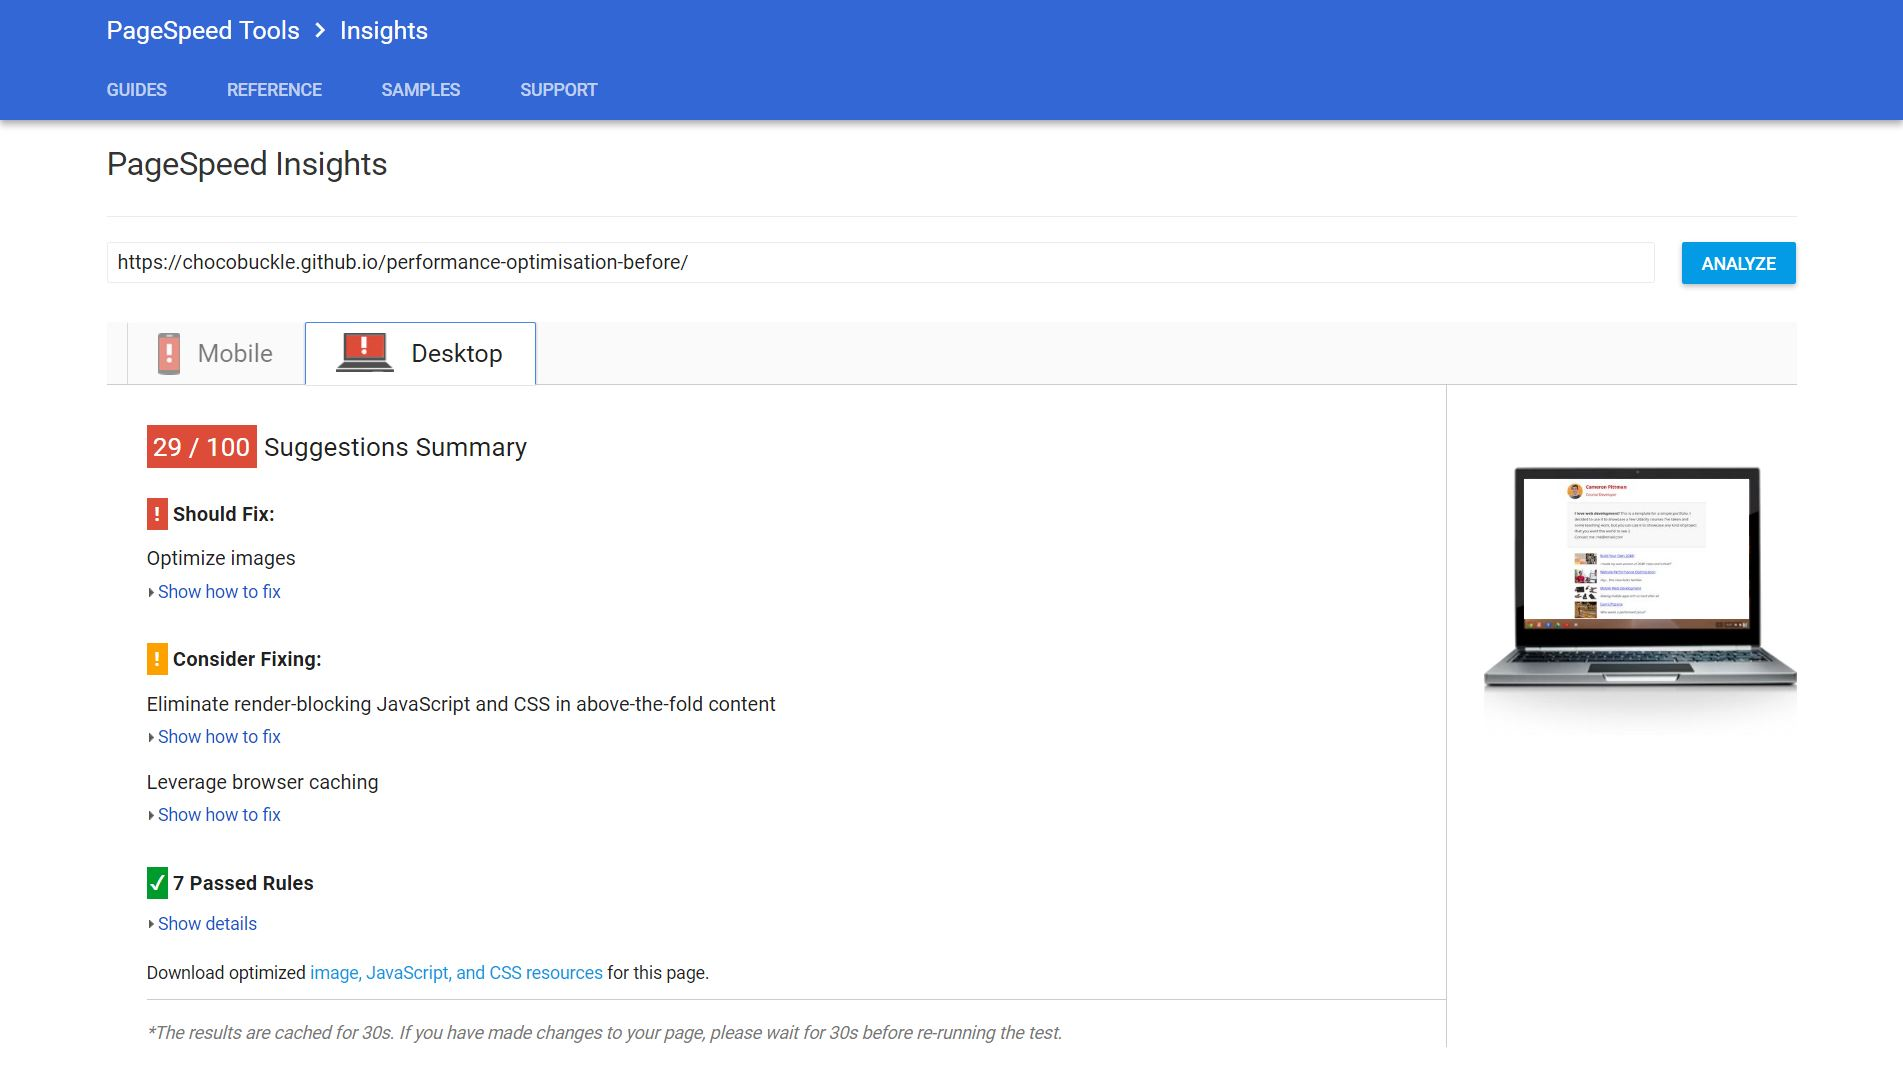
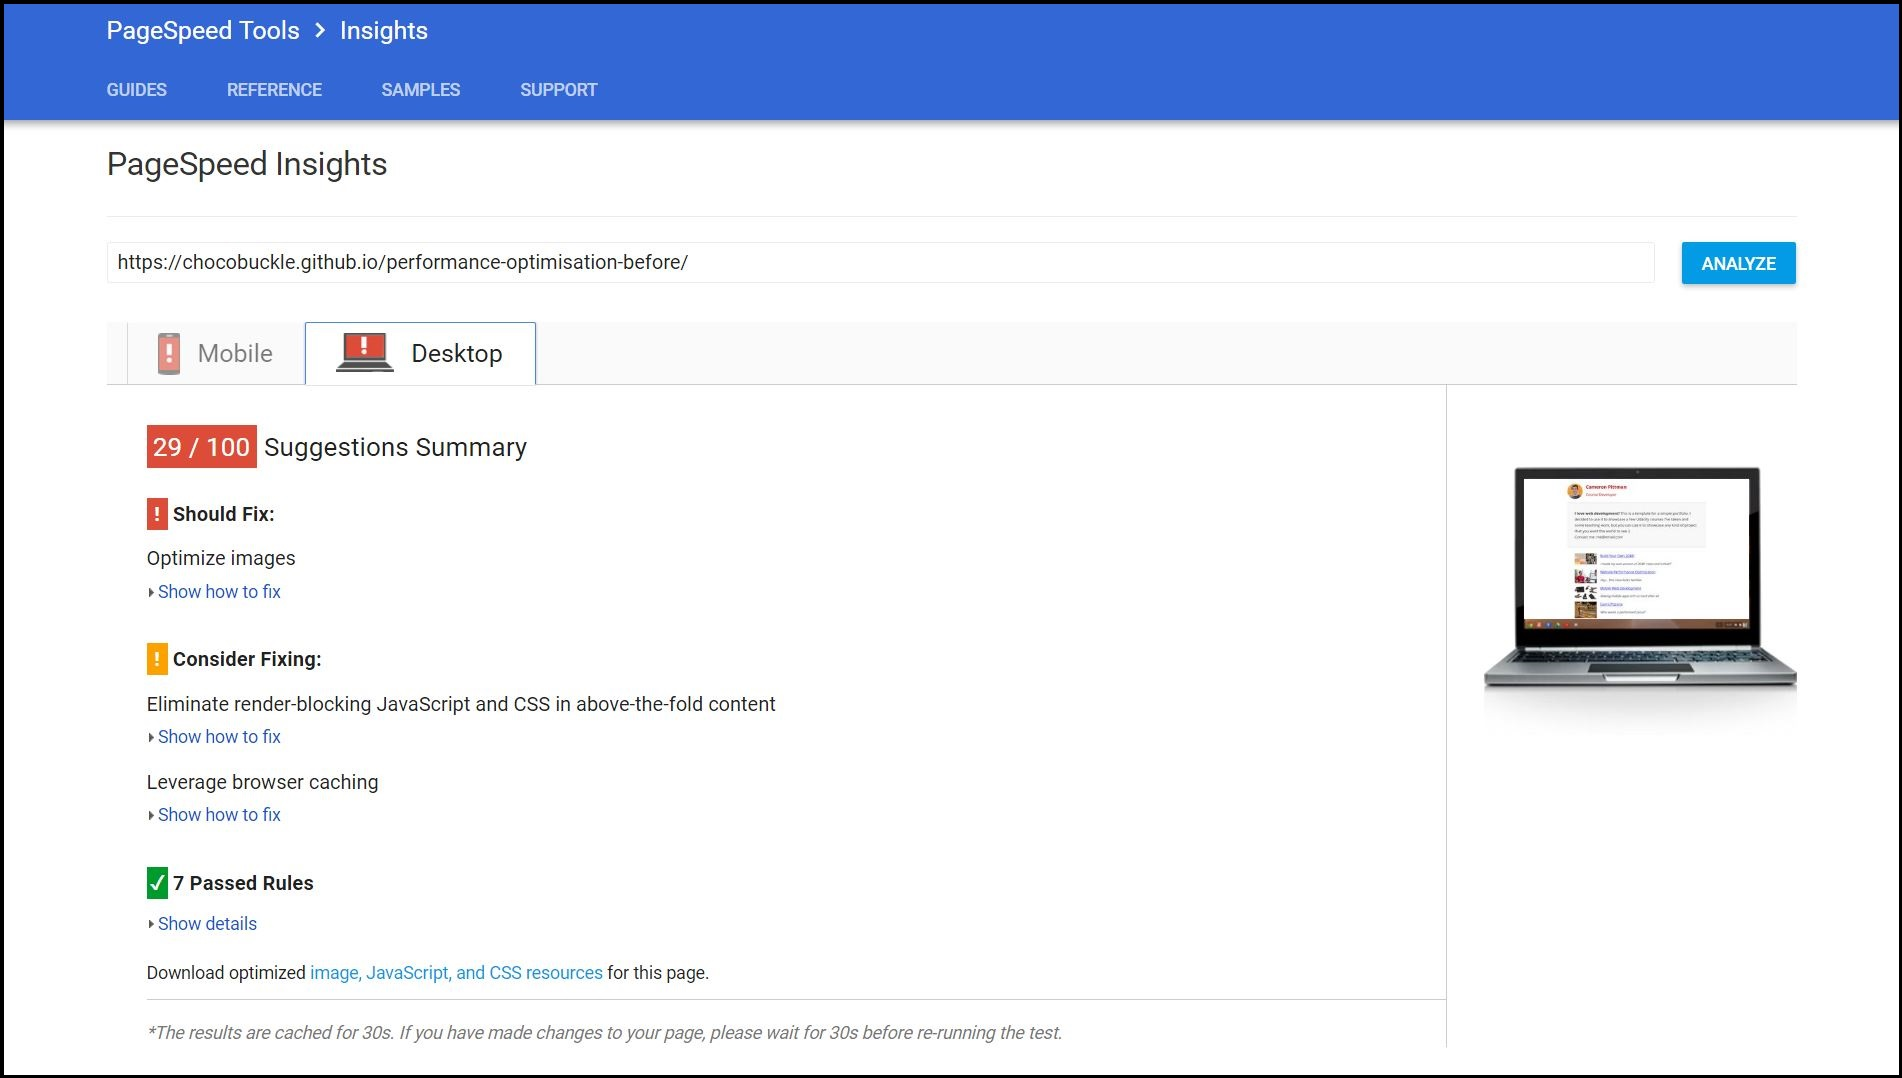
add borders to images in README

diff --git a/README.md b/README.md
@@ -2,9 +2,13 @@
 
 A website performance/rendering optimisation, submitted as a project for the Udacity Front-End Developer Nanodegree program.
 
+## Introduction
+
+As the number of devices users can access an application continues to grow, ensuring a quality user experience across those devices is of upmost importance. Understanding lower-level concepts regarding how the browser works and interprets code enables a developer to produce highly performant applications. This project showcases my skills in identifying performance bottlenecks and optimising web applications for an enjoyable user experience.
+
 ## Getting Started
 
-Either click [here](https://chocobuckle.github.io/performance-optimisation/) to open the site via Github Pages, or just clone/download the repo, unzip the folder to your destination of choice, then click on index.html in the project root folder to open the site in your default web browser. The site is already built, but if you want to test the build process just navigate to the project folder and run 'npm install' to download and install all required dependencies, then run 'npm start' to build the site again.
+Either click [here](https://chocobuckle.github.io/performance-optimisation/) to open the site via Github Pages, or just clone/download the repo, unzip the folder to your destination of choice, then click on index.html in the project root folder to open the site in your default web browser. The site is already built, but if you want to test the image optimisation/build process then just navigate to the project folder in your terminal and run 'npm install' to download and install all required dependencies, then run 'npm start' to optimise the source images again.
 
 ## Website Performance Optimisation
 
@@ -41,15 +45,20 @@ Desktop
 ![Screenshot of desktop PageSpeed score, before optimisations.](./screenshots/desktop-after.jpg?raw=true "Desktop PageSpeed score, before optimisations.")
 
 
+
 To test the PageSpeed score of the site yourself, just click [here](https://developers.google.com/speed/pagespeed/insights/?url=https%3A%2F%2Fchocobuckle.github.io%2Fperformance-optimisation%2F).
 
 
 ## Browser Rendering Optimisation
 
-* Use the arrow keys to move.
-* The goal is to collect all the treasure required to open one of the doors on the far side of road, whilst avoiding the ladybugs.
-* Treasure chests can only be opened by first collecting the necessary key.
-* You have 3 lives and there are 10 levels. The ladybugs will get faster as you progress and the levels will get increasingly more diffiult to navigate, but patience is your friend. Don't panic and you'll make it to the end.
+In the second part of the project I was tasked with optimising 'views/js/main.js' to make 'views/pizza.html' render with a consistent frame-rate of 60fps while scrolling, and also ensuring that the time to resize the pizzas using the 'pizza size' slider was less than 5ms.
+
+Please click [here](https://developers.google.com/speed/pagespeed/insights/?url=https%3A%2F%2Fchocobuckle.github.io%2Fperformance-optimisation%2F) to experience the non-optimised version of the site as originally provided to me.
+
+*
+*
+*
+*
 
 ## NPM Dependencies
 
